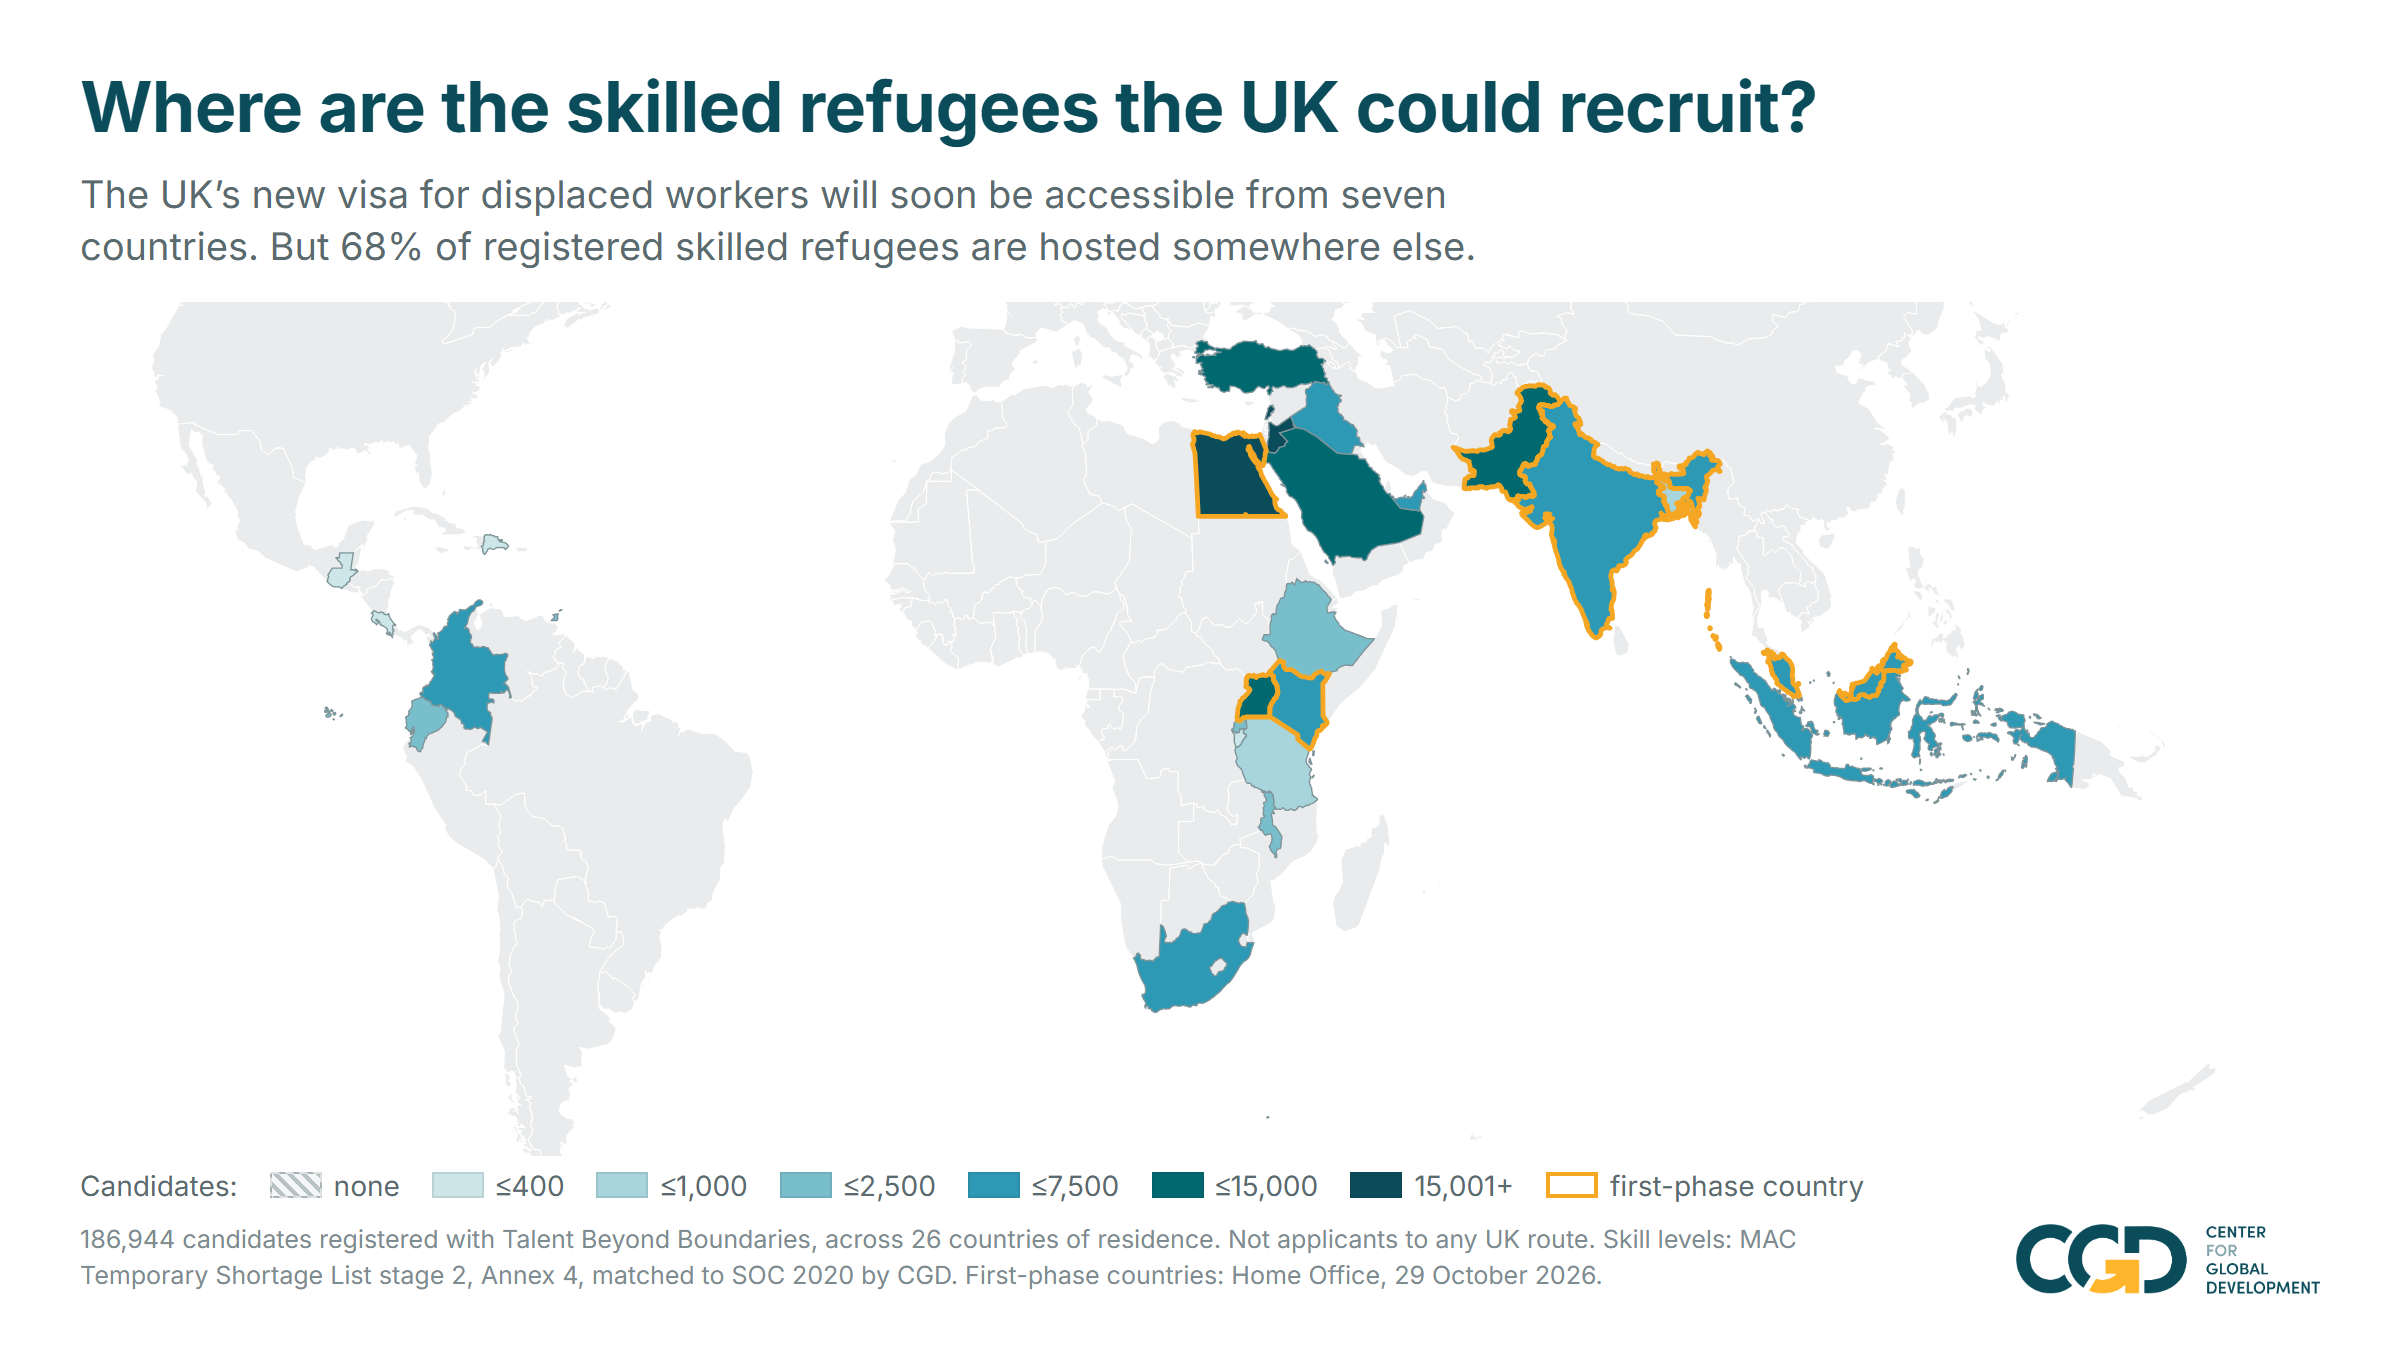
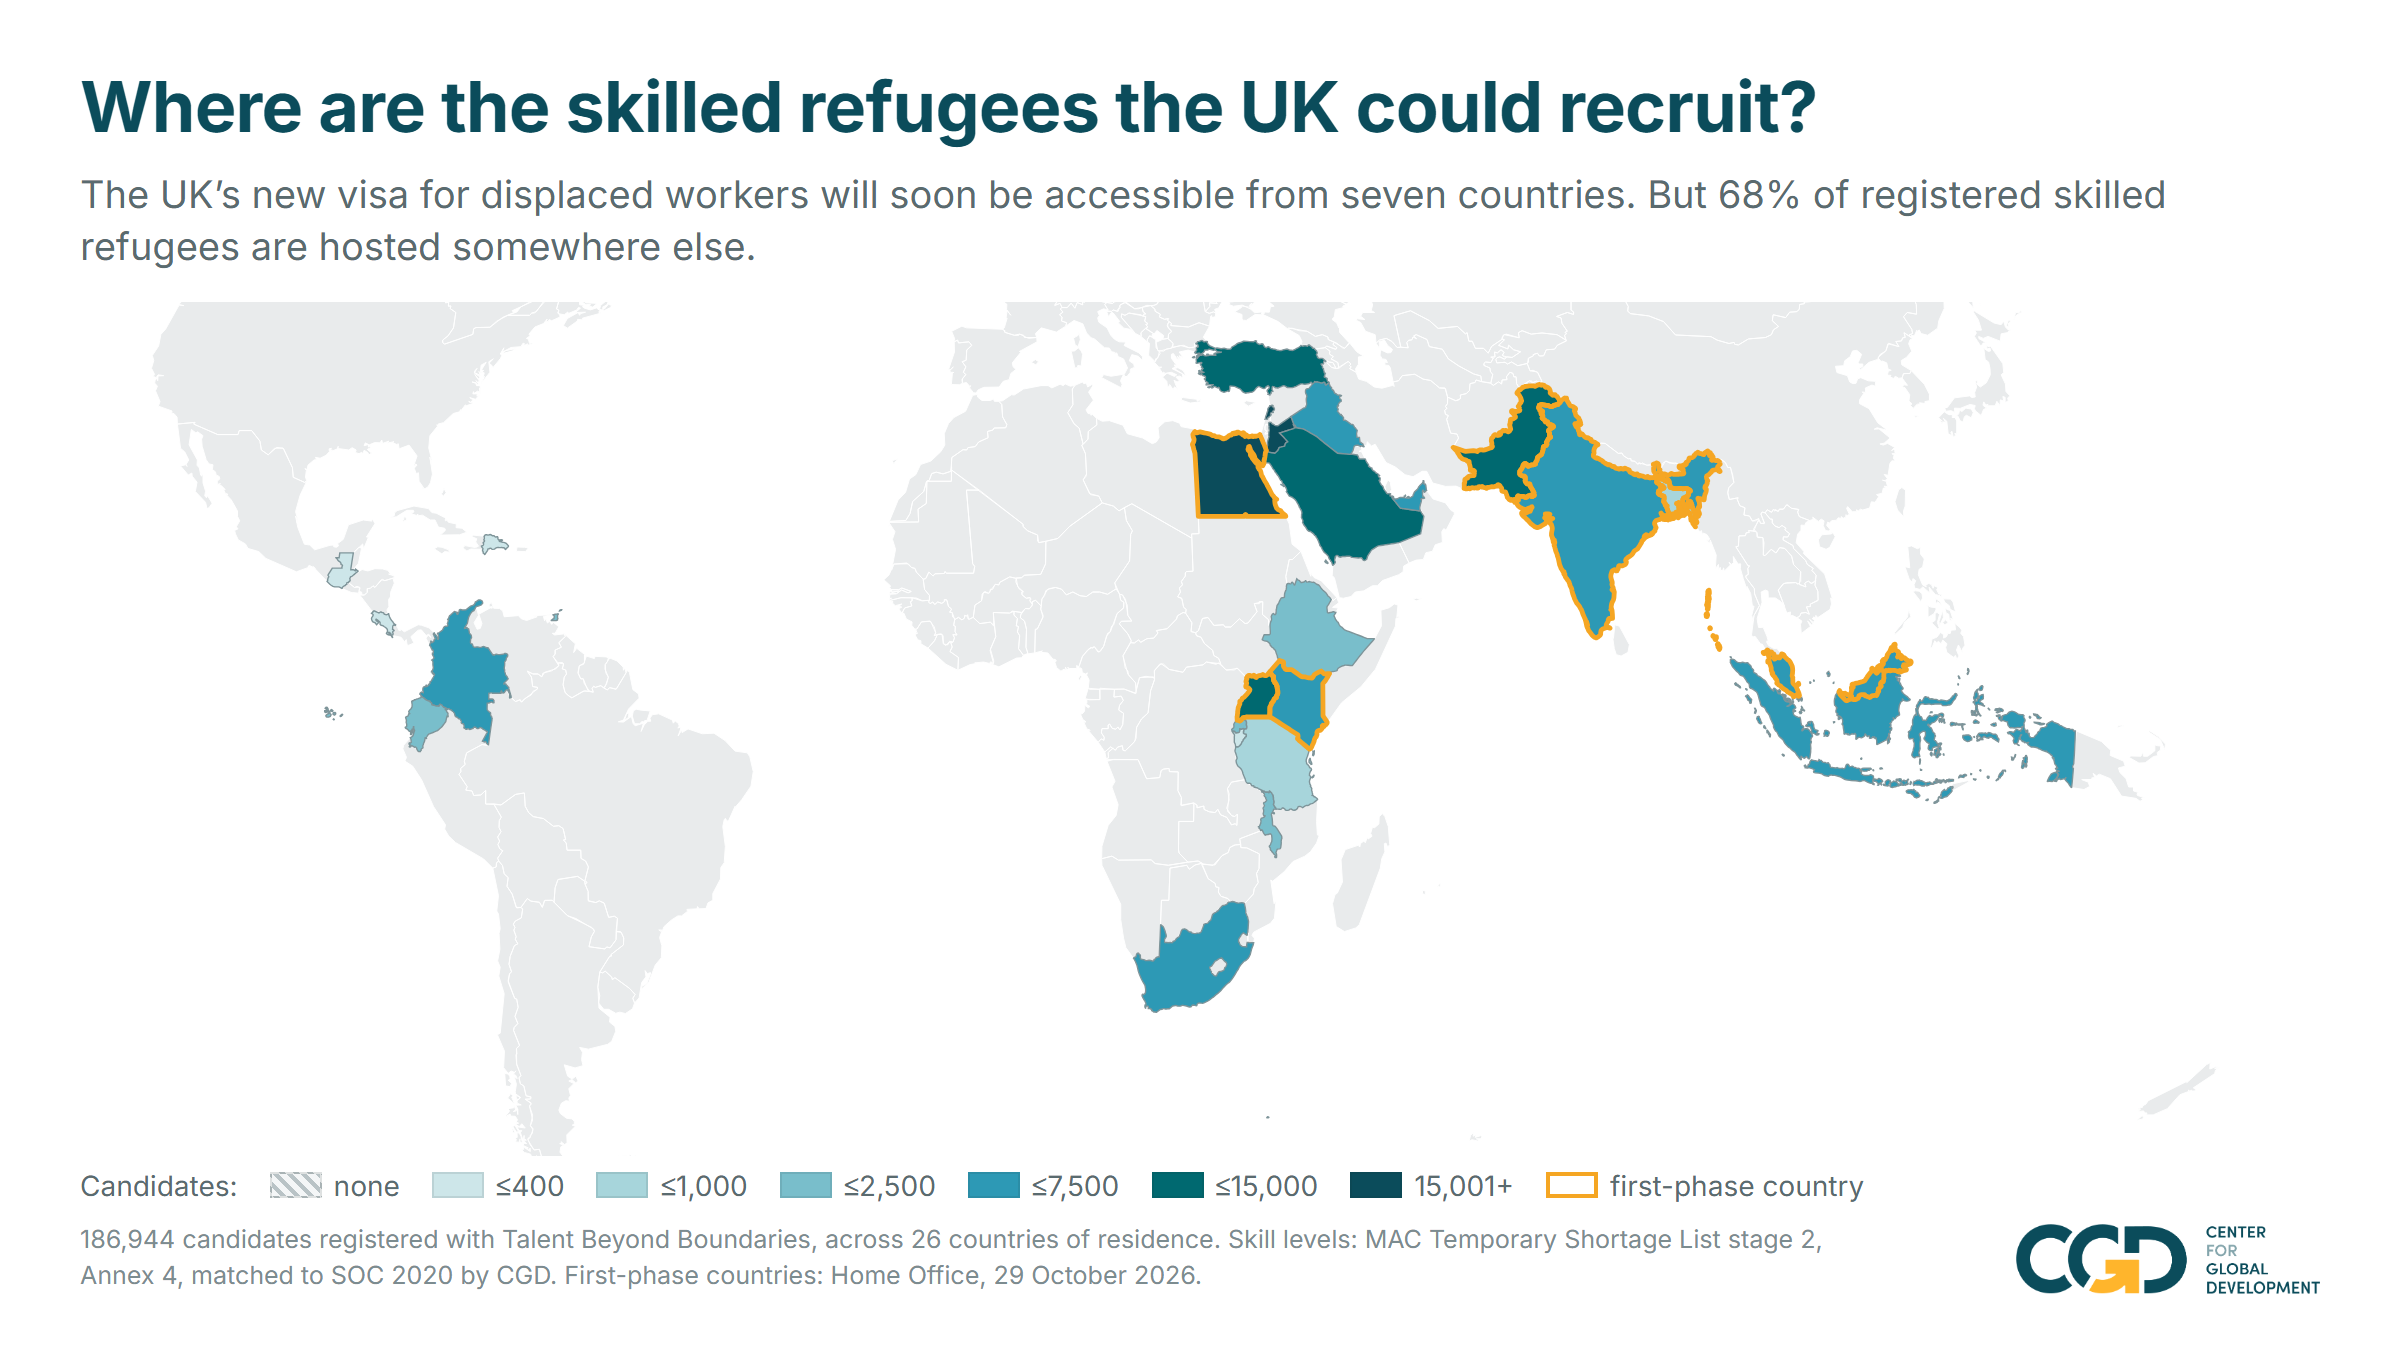
Let the social subtitle fill its measure, and trim the footnote
text-wrap:balance was evening the two lines out, which reads as the first one
giving up halfway across. Dropped, along with the max-width: line one now runs
to 93% of the measure and breaks only because the next word will not fit.

Footnote loses "Not applicants to any UK route" as asked, and gains a
non-breaking space in "Annex 4", which was splitting across the two lines.

Changed region(s): [[0.0312, 0.9022, 0.75, 0.9644], [0.0312, 0.1556, 0.5938, 0.2178], [0.5938, 0.1244, 0.9062, 0.1556]]

diff --git a/social.html b/social.html
@@ -38,8 +38,10 @@
   .pad{padding:0 40px}
   h1{margin:34px 0 0;font-size:35px;line-height:1.14;font-weight:700;color:var(--teal);
      letter-spacing:-.011em}
-  .sub{margin:11px 0 0;font-size:19px;line-height:1.36;font-weight:400;color:var(--grey);
-       max-width:52em;text-wrap:balance}
+  /* No max-width and no text-wrap:balance. Balancing evens the two lines out,
+     which reads as the first one giving up halfway across; the subtitle should
+     run to the end of the measure and wrap only when it has to. */
+  .sub{margin:11px 0 0;font-size:19px;line-height:1.36;font-weight:400;color:var(--grey)}
   /* The map takes whatever is left, and the SVG letterboxes inside it, so one
      page serves every canvas the social channels want. */
   .map{flex:1 1 auto;min-height:0;margin:14px 0 0;position:relative}
@@ -226,8 +228,9 @@
 
   document.getElementById('src').textContent =
     `${fmt(total)} candidates registered with Talent Beyond Boundaries, across `
-    + `${COUNTRIES.length} countries of residence. Not applicants to any UK route. `
-    + 'Skill levels: MAC Temporary Shortage List stage 2, Annex 4, matched to SOC 2020 '
+    + `${COUNTRIES.length} countries of residence. `
+    // Non-breaking: the line was splitting after "Annex".
+    + 'Skill levels: MAC Temporary Shortage List stage 2, Annex 4, matched to SOC 2020 '
     + 'by CGD. First-phase countries: Home Office, 29 October 2026.';
 
   // Let the renderer wait for this rather than guess at a delay.
